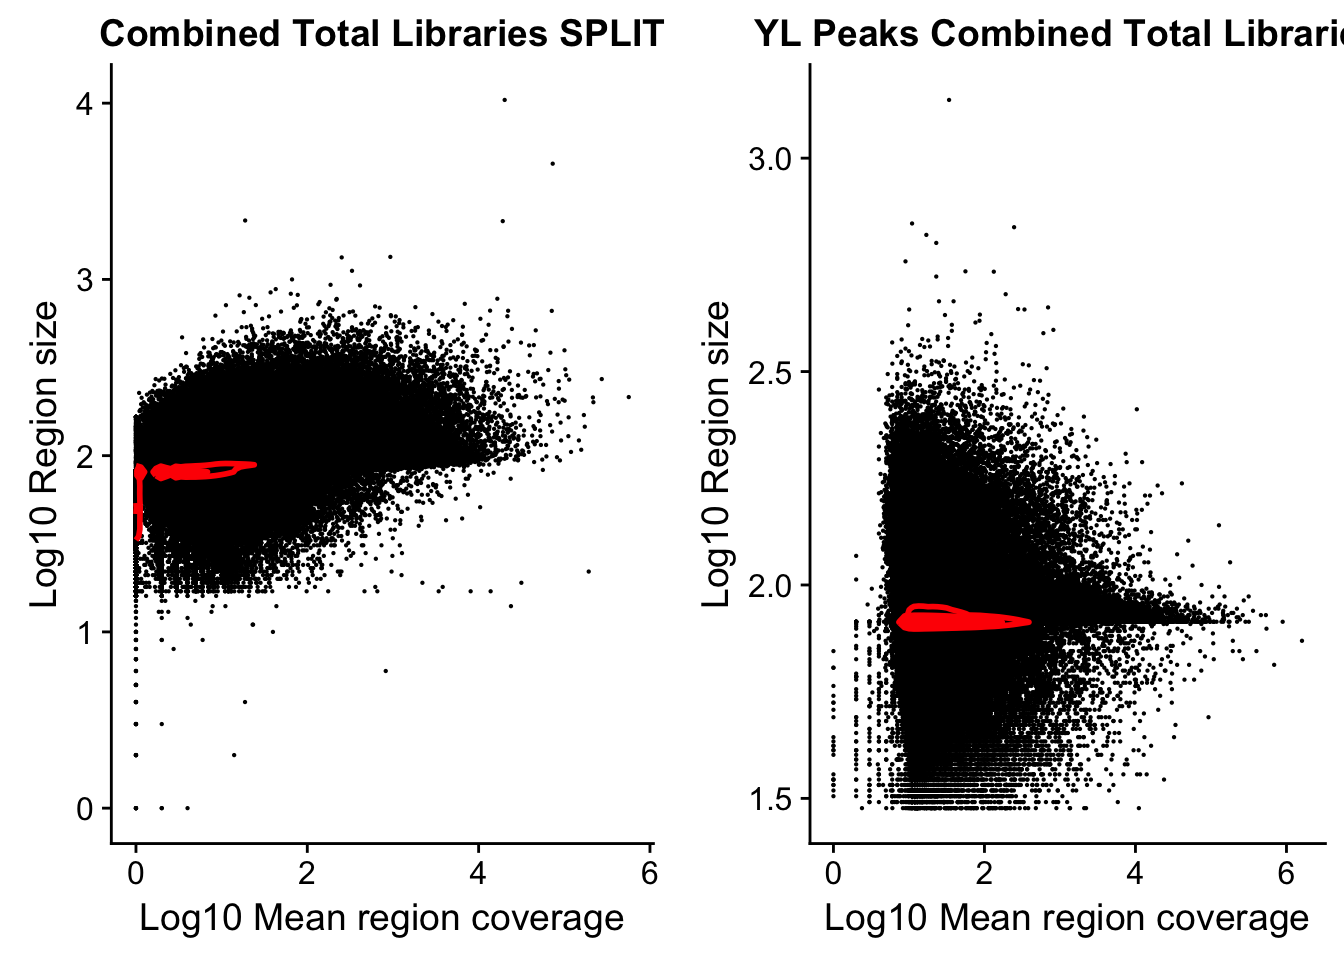
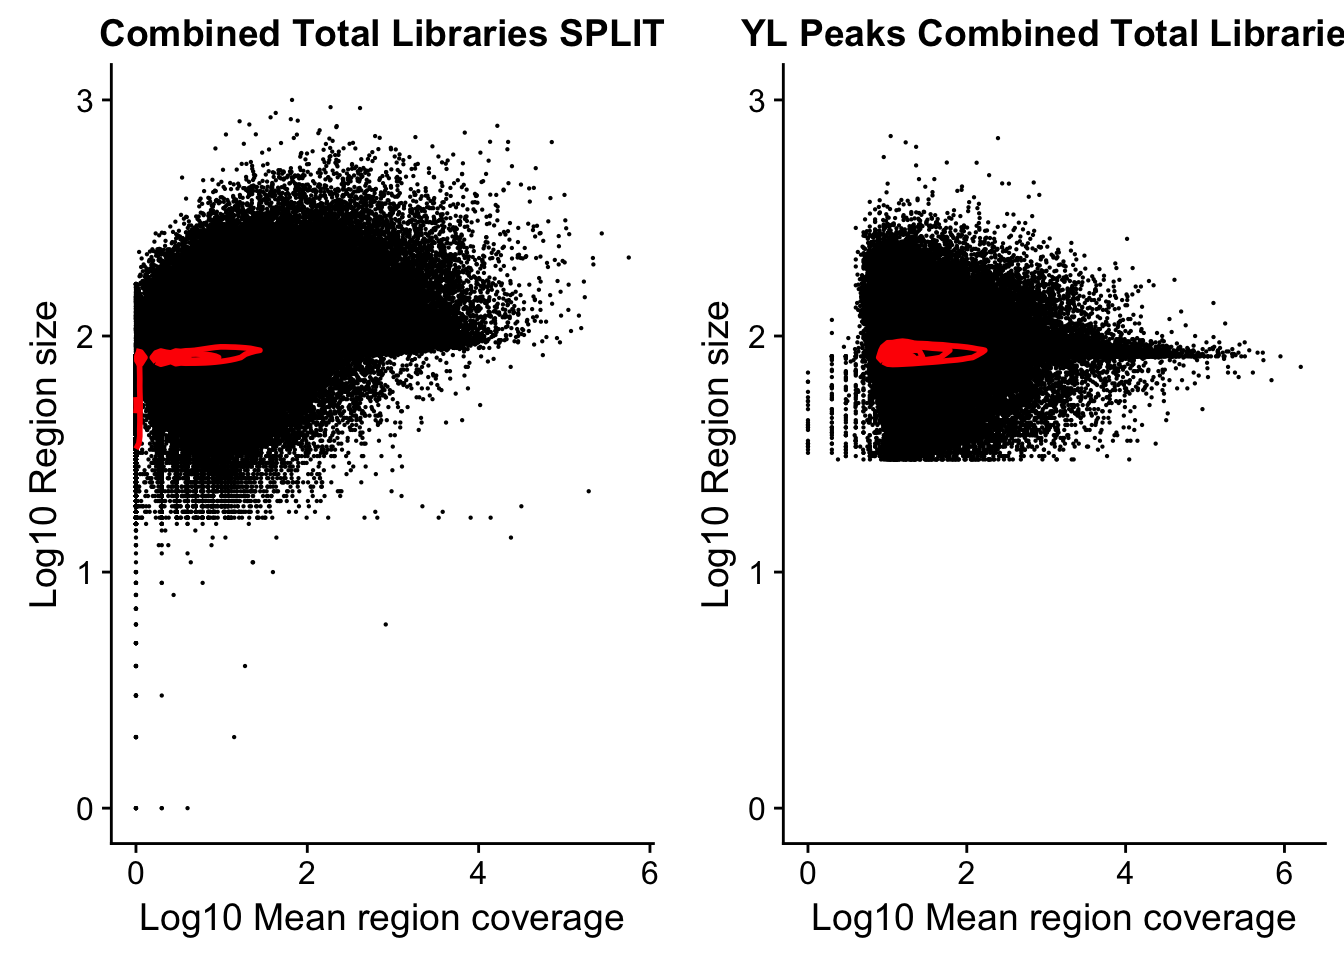
Build site.

diff --git a/docs/deNovopeakcalling.html b/docs/deNovopeakcalling.html
@@ -341,14 +341,13 @@ div.section {
 </details>
 </li>
 <li>
-<p><details> <summary> <strong style="color:blue;">✔</strong> <strong>Repository version:</strong> <a href="https://github.com/brimittleman/threeprimeseq/tree/df5cfe4942df2cf4fcc82dffd8d5b3a7d1fdfe02" target="_blank">df5cfe4</a> </summary></p>
+<p><details> <summary> <strong style="color:blue;">✔</strong> <strong>Repository version:</strong> <a href="https://github.com/brimittleman/threeprimeseq/tree/2522654f0e90864f429121515856254655ae0d85" target="_blank">2522654</a> </summary></p>
 Great! You are using Git for version control. Tracking code development and connecting the code version to the results is critical for reproducibility. The version displayed above was the version of the Git repository at the time these results were generated. <br><br> Note that you need to be careful to ensure that all relevant files for the analysis have been committed to Git prior to generating the results (you can use <code>wflow_publish</code> or <code>wflow_git_commit</code>). workflowr only checks the R Markdown file, but you know if there are other scripts or data files that it depends on. Below is the status of the Git repository when the results were generated:
 <pre><code>
 Ignored files:
     Ignored:    .DS_Store
     Ignored:    .Rhistory
     Ignored:    .Rproj.user/
-    Ignored:    analysis/figure/
     Ignored:    output/.DS_Store
 
 Untracked files:
@@ -400,6 +399,40 @@ Message
 </tr>
 </thead>
 <tbody>
+<tr>
+<td style="text-align:left;">
+Rmd
+</td>
+<td style="text-align:left;">
+<a href="https://github.com/brimittleman/threeprimeseq/blob/2522654f0e90864f429121515856254655ae0d85/analysis/deNovopeakcalling.Rmd" target="_blank">2522654</a>
+</td>
+<td style="text-align:left;">
+Briana Mittleman
+</td>
+<td style="text-align:left;">
+2018-07-06
+</td>
+<td style="text-align:left;">
+fix axis
+</td>
+</tr>
+<tr>
+<td style="text-align:left;">
+html
+</td>
+<td style="text-align:left;">
+<a href="https://cdn.rawgit.com/brimittleman/threeprimeseq/a0541e37d08c94cb1df9592aca3537ed38406b91/docs/deNovopeakcalling.html" target="_blank">a0541e3</a>
+</td>
+<td style="text-align:left;">
+Briana Mittleman
+</td>
+<td style="text-align:left;">
+2018-07-06
+</td>
+<td style="text-align:left;">
+Build site.
+</td>
+</tr>
 <tr>
 <td style="text-align:left;">
 Rmd
@@ -926,6 +959,7 @@ Briana Mittleman
          geom_density2d(na.rm = TRUE, size = 1, colour = &#39;red&#39;) +
          ylab(&#39;Log10 Region size&#39;) +
          xlab(&#39;Log10 Mean region coverage&#39;) + 
+     scale_y_continuous(limits = c(0, 3)) +
         ggtitle(&quot;Combined Total Libraries SPLIT&quot;)</code></pre>
 </div>
 <div id="investigate-long-regions" class="section level3">
@@ -1104,12 +1138,43 @@ if __name__ == &quot;__main__&quot;:
 <p>Plot the lengths</p>
 <pre class="r"><code>plot(sort(log10(YL_peaks$length), decreasing = T), xlab=&quot;Region&quot;, ylab=&quot;log10 of region size&quot;, main=&quot;Distribution of bases in YL regions- log10 &quot;)</code></pre>
 <p><img src="figure/deNovopeakcalling.Rmd/unnamed-chunk-26-1.png" width="672" style="display: block; margin: auto;" /></p>
+<details> <summary><em>Expand here to see past versions of unnamed-chunk-26-1.png:</em></summary>
+<table style="border-collapse:separate; border-spacing:5px;">
+<thead>
+<tr>
+<th style="text-align:left;">
+Version
+</th>
+<th style="text-align:left;">
+Author
+</th>
+<th style="text-align:left;">
+Date
+</th>
+</tr>
+</thead>
+<tbody>
+<tr>
+<td style="text-align:left;">
+<a href="https://github.com/brimittleman/threeprimeseq/blob/a0541e37d08c94cb1df9592aca3537ed38406b91/docs/figure/deNovopeakcalling.Rmd/unnamed-chunk-26-1.png" target="_blank">a0541e3</a>
+</td>
+<td style="text-align:left;">
+Briana Mittleman
+</td>
+<td style="text-align:left;">
+2018-07-06
+</td>
+</tr>
+</tbody>
+</table>
+<p></details></p>
 <p>Plot number of bases against the mean:</p>
 <pre class="r"><code>YLplot=ggplot(YL_peaks, aes(y=log10(length), x=log10(count))) +
          geom_point(na.rm = TRUE, size = 0.1) +
          geom_density2d(na.rm = TRUE, size = 1, colour = &#39;red&#39;) +
          ylab(&#39;Log10 Region size&#39;) +
          xlab(&#39;Log10 Mean region coverage&#39;) + 
+        scale_y_continuous(limits = c(0, 3)) + 
         ggtitle(&quot;YL Peaks Combined Total Libraries&quot;)</code></pre>
 <pre class="r"><code>library(cowplot)</code></pre>
 <pre><code>Warning: package &#39;cowplot&#39; was built under R version 3.4.3</code></pre>
@@ -1120,6 +1185,36 @@ Attaching package: &#39;cowplot&#39;</code></pre>
     ggsave</code></pre>
 <pre class="r"><code>plot_grid(splitplot, YLplot)</code></pre>
 <p><img src="figure/deNovopeakcalling.Rmd/unnamed-chunk-28-1.png" width="672" style="display: block; margin: auto;" /></p>
+<details> <summary><em>Expand here to see past versions of unnamed-chunk-28-1.png:</em></summary>
+<table style="border-collapse:separate; border-spacing:5px;">
+<thead>
+<tr>
+<th style="text-align:left;">
+Version
+</th>
+<th style="text-align:left;">
+Author
+</th>
+<th style="text-align:left;">
+Date
+</th>
+</tr>
+</thead>
+<tbody>
+<tr>
+<td style="text-align:left;">
+<a href="https://github.com/brimittleman/threeprimeseq/blob/a0541e37d08c94cb1df9592aca3537ed38406b91/docs/figure/deNovopeakcalling.Rmd/unnamed-chunk-28-1.png" target="_blank">a0541e3</a>
+</td>
+<td style="text-align:left;">
+Briana Mittleman
+</td>
+<td style="text-align:left;">
+2018-07-06
+</td>
+</tr>
+</tbody>
+</table>
+<p></details></p>
 </div>
 </div>
 <div id="run-this-on-the-nuclear-fraction-bam" class="section level2">
